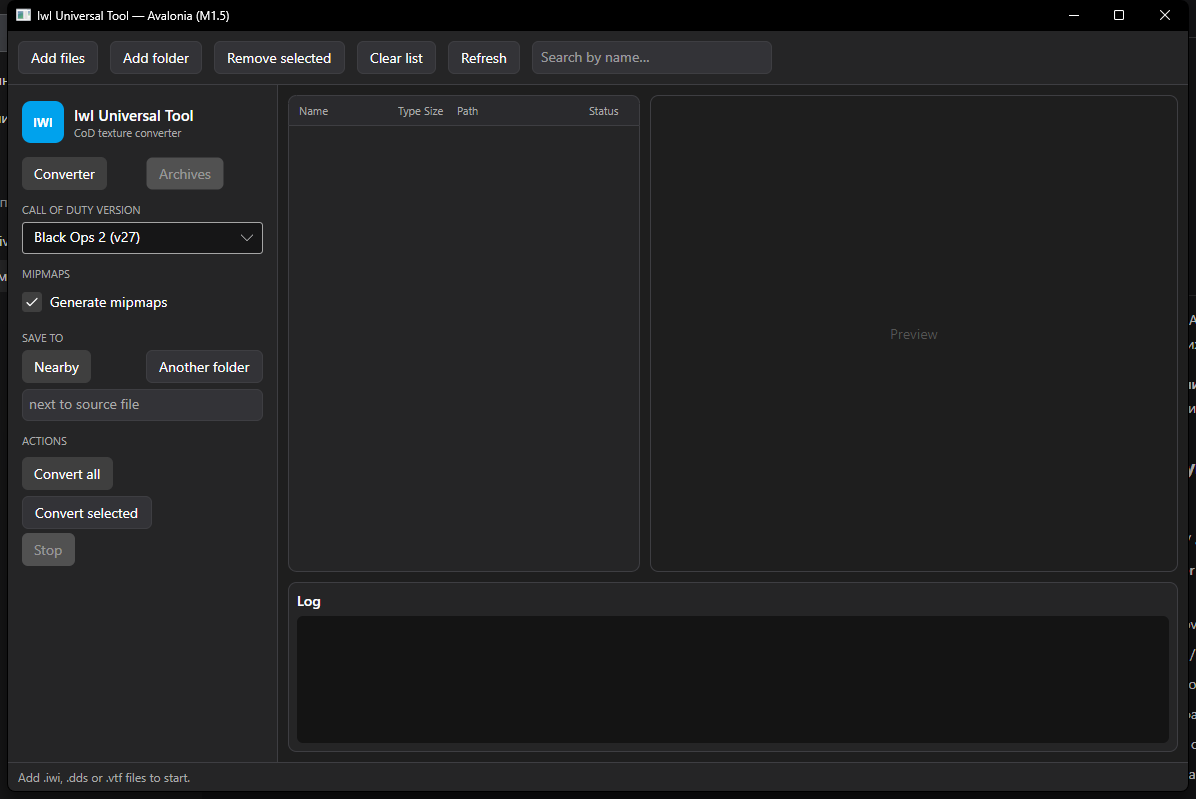
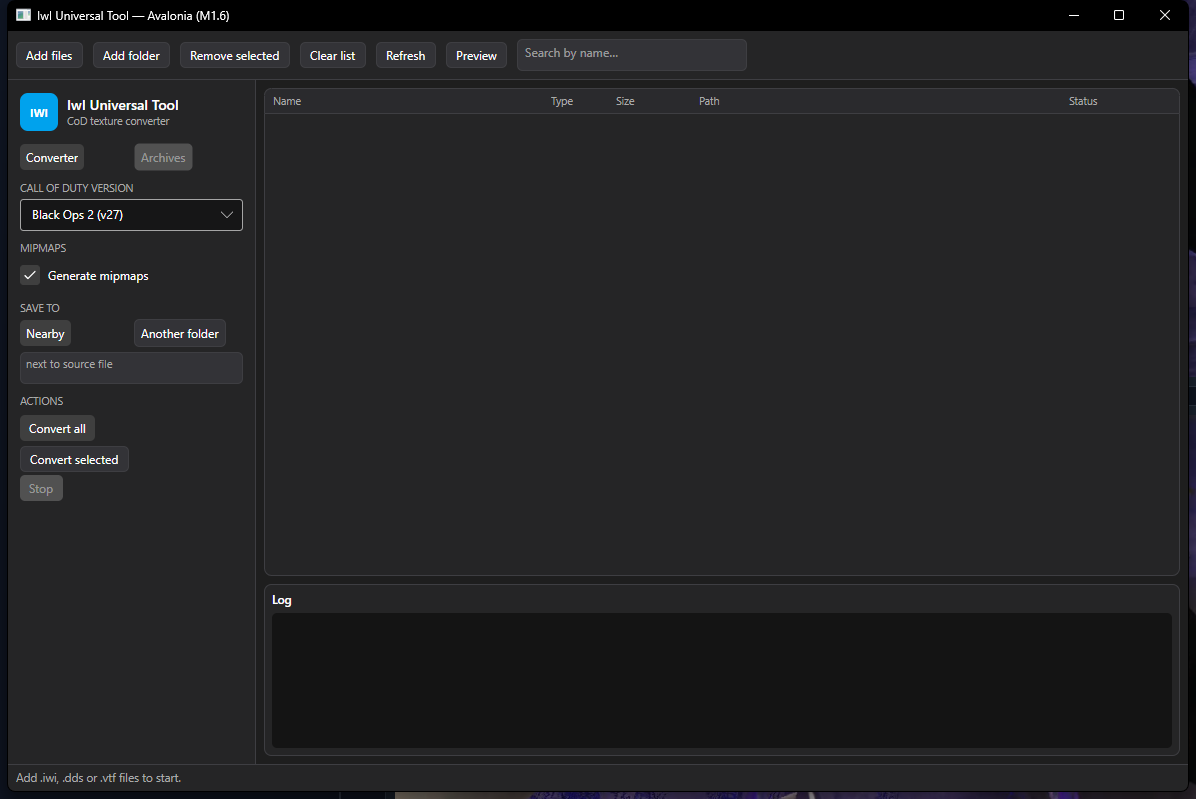
Avalonia M1.6: compact layout, full-width file table, separate preview window

diff --git a/IwIUniversalTool.Avalonia/MainWindow.axaml.cs b/IwIUniversalTool.Avalonia/MainWindow.axaml.cs
@@ -9,6 +9,7 @@ using System.Threading;
 using System.Threading.Tasks;
 using Avalonia;
 using Avalonia.Controls;
+using Avalonia.Input;
 using Avalonia.Interactivity;
 using Avalonia.Media;
 using Avalonia.Media.Imaging;
@@ -38,6 +39,7 @@ public partial class MainWindow : Window
     private readonly ObservableCollection<TextureItem> _view = new();
     private string? _outputDir;
     private CancellationTokenSource? _cts;
+    private PreviewWindow? _previewWindow;
 
     public MainWindow()
     {
@@ -134,8 +136,6 @@ public partial class MainWindow : Window
     {
         _all.Clear();
         _view.Clear();
-        PreviewImage.Source = null;
-        PreviewPlaceholder.IsVisible = true;
         StatusText.Text = "List cleared.";
         Log("List cleared.");
     }
@@ -303,25 +303,41 @@ public partial class MainWindow : Window
 
     private async void FilesList_SelectionChanged(object? sender, SelectionChangedEventArgs e)
     {
-        if (FilesList.SelectedItem is not TextureItem item)
-        {
-            PreviewImage.Source = null;
-            PreviewPlaceholder.IsVisible = true;
-            return;
-        }
+        if (FilesList.SelectedItem is TextureItem item)
+            StatusText.Text = $"{item.Name} — {item.Type}, {item.SizeText}";
+    }
+
+    private async void PreviewButton_Click(object? sender, RoutedEventArgs e) => await OpenPreviewAsync();
+
+    private async void FilesList_DoubleTapped(object? sender, TappedEventArgs e) => await OpenPreviewAsync();
+
+    private async Task OpenPreviewAsync()
+    {
+        if (FilesList.SelectedItem is not TextureItem item) return;
 
         try
         {
             var decoded = await Task.Run(() => DecodePreview(item.Path));
-            PreviewImage.Source = CreateBitmap(decoded.Width, decoded.Height, decoded.Bgra);
-            PreviewPlaceholder.IsVisible = false;
-            StatusText.Text = $"{item.Name} — {decoded.Info}";
+            var bitmap = CreateBitmap(decoded.Width, decoded.Height, decoded.Bgra);
+            string info = $"{item.Name} — {decoded.Info}";
+
+            if (_previewWindow is { IsVisible: true })
+            {
+                _previewWindow.ShowImage(bitmap, info);
+                _previewWindow.Activate();
+            }
+            else
+            {
+                _previewWindow = new PreviewWindow();
+                _previewWindow.Closed += (_, _) => _previewWindow = null;
+                _previewWindow.ShowImage(bitmap, info);
+                _previewWindow.Show(this);
+            }
         }
         catch (Exception ex)
         {
-            PreviewImage.Source = null;
-            PreviewPlaceholder.IsVisible = true;
             StatusText.Text = "Preview error: " + ex.Message;
+            Log("Preview error: " + ex.Message);
         }
     }
 

diff --git a/IwIUniversalTool.Avalonia/PreviewWindow.axaml.cs b/IwIUniversalTool.Avalonia/PreviewWindow.axaml.cs
@@ -1,0 +1,19 @@
+using Avalonia.Controls;
+using Avalonia.Media.Imaging;
+
+namespace IwIUniversalTool.Avalonia;
+
+public partial class PreviewWindow : Window
+{
+    public PreviewWindow()
+    {
+        InitializeComponent();
+    }
+
+    public void ShowImage(WriteableBitmap bitmap, string info)
+    {
+        PreviewImage.Source = bitmap;
+        InfoText.Text = info;
+        Title = "Preview — " + info;
+    }
+}
